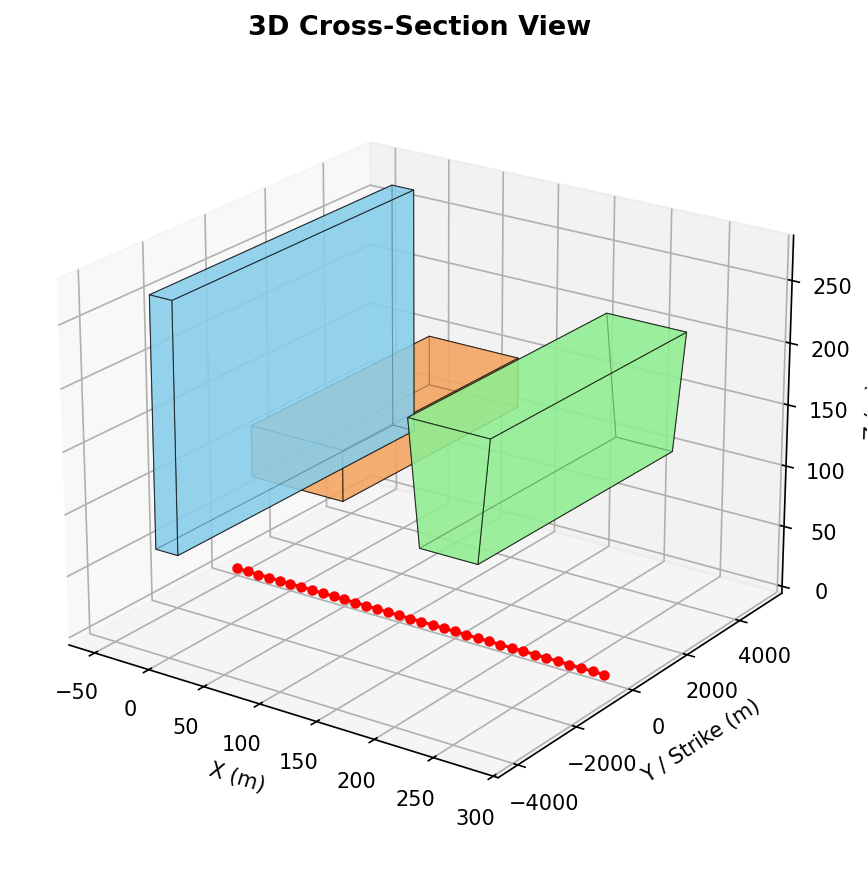
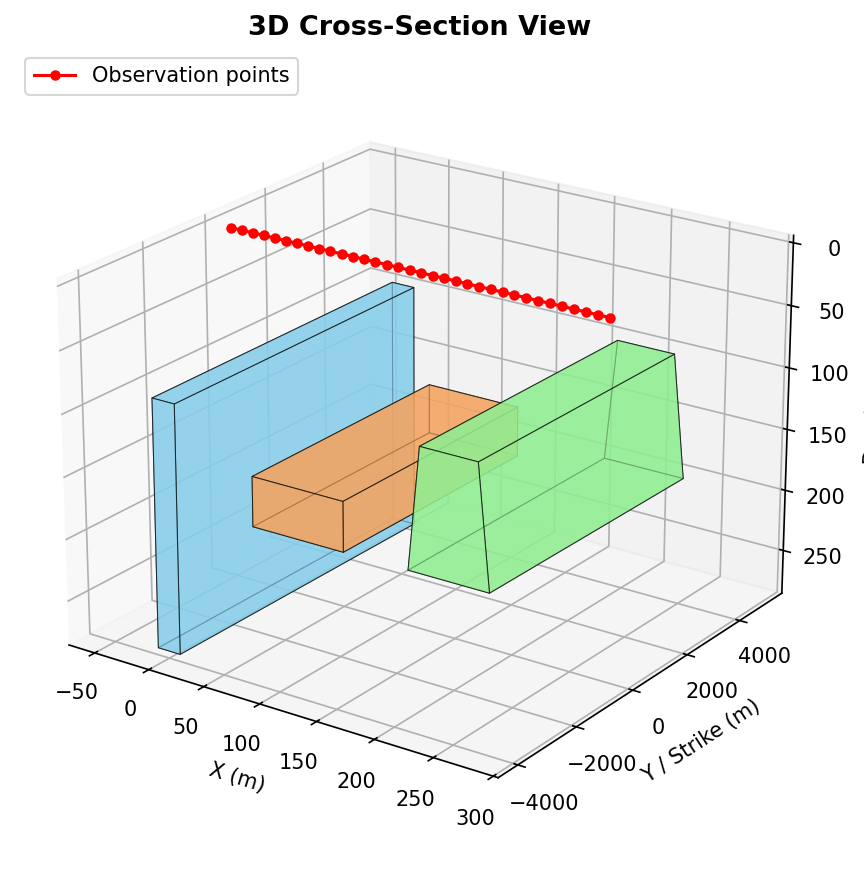
fix: address PR review comments on plot_model_3d
- Invert z-axis and label it "Depth (m)" to match the depth-increases-
  downward convention used in plot_model's 2D cross-section
- Add ax.legend() so the "Observation points" label is actually shown
- Add TestResolveStrikeExtents unit tests to lock in the 2D/2.5D/2.75D
  extrusion rules for _resolve_strike_extents
- Regenerate docs example image with corrected depth orientation

diff --git a/tests/unit/viz/test_plotter.py b/tests/unit/viz/test_plotter.py
@@ -11,7 +11,7 @@ import numpy as np
 
 from forward_model.models import ForwardModel
 from forward_model.viz import plot_anomaly, plot_combined, plot_model, plot_model_3d
-from forward_model.viz.plotter import _polygon_centroid
+from forward_model.viz.plotter import _polygon_centroid, _resolve_strike_extents
 
 
 class TestPlotModel:
@@ -613,6 +613,49 @@ class TestPlotModelLabelFeatures:
         assert len(annotations) == 1
         assert annotations[0].arrow_patch is None
         plt.close()
+
+
+class TestResolveStrikeExtents:
+    """Unit tests for the _resolve_strike_extents helper."""
+
+    def _body(self, **kwargs: object) -> "object":
+        from forward_model.models import GeologicBody
+
+        return GeologicBody(
+            vertices=[[0, 100], [50, 100], [50, 200], [0, 200]],
+            susceptibility=0.05,
+            name="Test",
+            **kwargs,  # type: ignore[arg-type]
+        )
+
+    def test_2d_uses_default_strike_symmetrically(self) -> None:
+        """2D body (no strike fields) splits default_strike symmetrically."""
+        body = self._body()
+        y_back, y_front = _resolve_strike_extents(body, default_strike=10_000.0)  # type: ignore[arg-type]
+        assert y_back == -5_000.0
+        assert y_front == 5_000.0
+
+    def test_2_5d_uses_strike_half_length(self) -> None:
+        """2.5D body uses ±strike_half_length."""
+        body = self._body(strike_half_length=3_000.0)
+        y_back, y_front = _resolve_strike_extents(body, default_strike=10_000.0)  # type: ignore[arg-type]
+        assert y_back == -3_000.0
+        assert y_front == 3_000.0
+
+    def test_2_75d_uses_asymmetric_fields(self) -> None:
+        """2.75D body uses −strike_backward … +strike_forward."""
+        body = self._body(strike_forward=8_000.0, strike_backward=3_000.0)
+        y_back, y_front = _resolve_strike_extents(body, default_strike=10_000.0)  # type: ignore[arg-type]
+        assert y_back == -3_000.0
+        assert y_front == 8_000.0
+
+    def test_2_5d_ignores_default_strike(self) -> None:
+        """2.5D body extent is independent of default_strike."""
+        body = self._body(strike_half_length=500.0)
+        y_back1, y_front1 = _resolve_strike_extents(body, default_strike=1_000.0)  # type: ignore[arg-type]
+        y_back2, y_front2 = _resolve_strike_extents(body, default_strike=50_000.0)  # type: ignore[arg-type]
+        assert y_back1 == y_back2
+        assert y_front1 == y_front2
 
 
 class TestPlotModel3D:

diff --git a/forward_model/viz/plotter.py b/forward_model/viz/plotter.py
@@ -330,9 +330,11 @@ def plot_model_3d(
 
     ax.set_xlabel("X (m)")
     ax.set_ylabel("Y / Strike (m)")
-    ax.set_zlabel("Z (m)")
+    ax.set_zlabel("Depth (m)")
     ax.set_title("3D Cross-Section View", fontsize=13, fontweight="bold")
     ax.view_init(elev=elev, azim=azim)
+    ax.invert_zaxis()
+    ax.legend(loc="upper left")
 
     return fig
 
